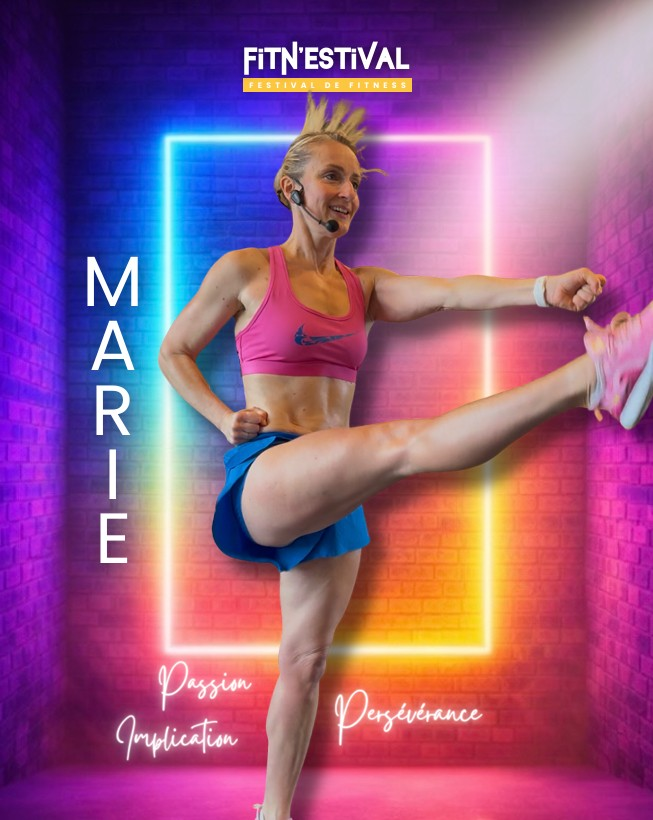
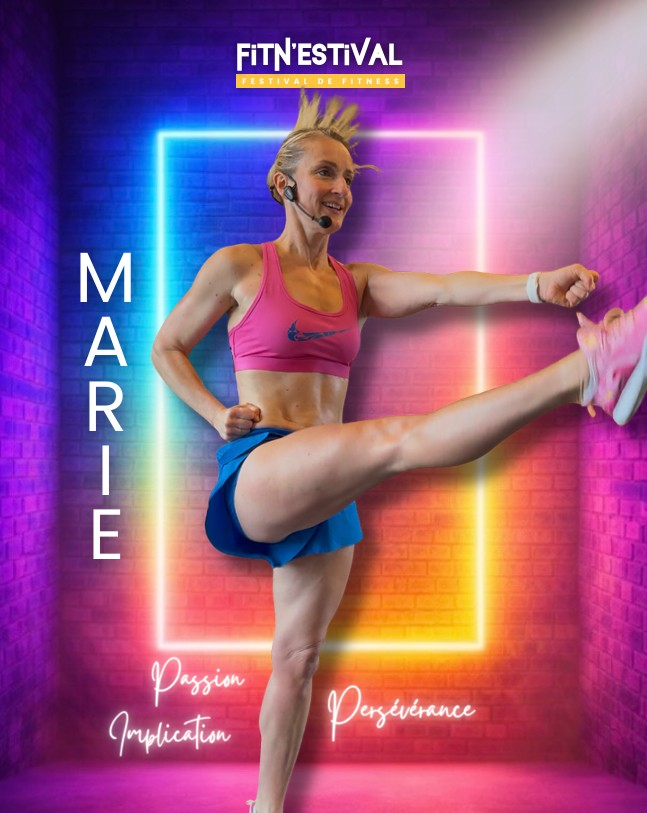
fix: affiche 2027 corrigée (extension jpeg + affichage complet)

diff --git a/index.html b/index.html
@@ -141,7 +141,7 @@
     }
     .hero-card img {
       width: 100%; border-radius: 24px; display: block;
-      max-height: 460px; object-fit: cover; object-position: center top;
+      height: auto; object-fit: contain;
     }
 
     /* ── SECTIONS ── */
@@ -662,7 +662,7 @@
       </div>
     </div>
     <div class="hero-card">
-      <img src="img/affiche_fitn_estival_2027.jpg" alt="Affiche FiTN'ESTiVAL 2027" />
+      <img src="img/affiche_fitn_estival_2027.jpeg" alt="Affiche FiTN'ESTiVAL 2027" />
     </div>
   </div>
 </section>

diff --git a/api/contact.js b/api/contact.js
@@ -23,7 +23,7 @@ export default async function handler(req, res) {
       },
       body: JSON.stringify({
         from: 'FiTN\'ESTiVAL <[email redacted]>',
-        to: ['[email redacted]'],
+        to: ['[email redacted]'],
         reply_to: email,
         subject: `📩 Nouveau message de ${prenom} ${nom} — ${interet}`,
         html: `